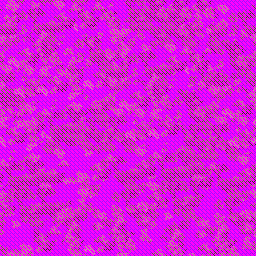
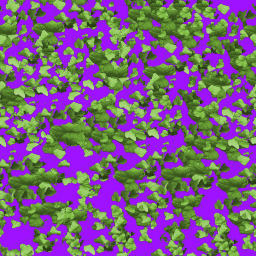
- Fixed the switched second axis - Use pattern for transparency now

diff --git a/font.c b/font.c
@@ -28,28 +28,28 @@ void reloadFont()
   if (font[0])
     spFontDelete(font[0]);
   font[0] = spFontLoad(FONT_LOCATION,FONT_SIZE_0*spGetSizeFactor()>>SP_ACCURACY);
-  spFontAddRange(font[0],' ','~',0);//whole ASCII
+  spFontAdd(font[0],SP_FONT_GROUP_ASCII,0);//whole ASCII
   spFontAddBorder(font[0],65535);
   spFontReplaceColor(font[0],0,SP_ALPHA_COLOR);
 
   if (font[1])
     spFontDelete(font[1]);
   font[1] = spFontLoad(FONT_LOCATION,FONT_SIZE_1*spGetSizeFactor()>>SP_ACCURACY);
-  spFontAddRange(font[1],' ','~',0);//whole ASCII
+  spFontAdd(font[1],SP_FONT_GROUP_ASCII,0);//whole ASCII
   spFontAddBorder(font[1],65535);
   spFontReplaceColor(font[1],0,SP_ALPHA_COLOR);
 
   if (font[2])
     spFontDelete(font[2]);
   font[2] = spFontLoad(FONT_LOCATION,FONT_SIZE_2*spGetSizeFactor()>>SP_ACCURACY);
-  spFontAddRange(font[2],' ','~',14823);//whole ASCII
+  spFontAdd(font[2],SP_FONT_GROUP_ASCII,14823);//whole ASCII
   spFontAddBorder(font[2],48631);
   spFontReplaceColor(font[2],0,SP_ALPHA_COLOR);
 
   if (font[3])
     spFontDelete(font[3]);
   font[3] = spFontLoad(FONT_LOCATION,FONT_SIZE_3*spGetSizeFactor()>>SP_ACCURACY);
-  spFontAddRange(font[3],' ','~',14823);//whole ASCII
+  spFontAdd(font[3],SP_FONT_GROUP_ASCII,14823);//whole ASCII
   spFontAddBorder(font[3],48631);
   spFontReplaceColor(font[3],0,SP_ALPHA_COLOR);
 
@@ -66,14 +66,14 @@ void reloadFont()
   if (font[4])
     spFontDelete(font[4]);
   font[4] = spFontLoad(FONT_LOCATION,FONT_SIZE_4*spGetSizeFactor()>>SP_ACCURACY);
-  spFontAddRange(font[4],' ','~',0);//whole ASCII
+  spFontAdd(font[4],SP_FONT_GROUP_ASCII,0);//whole ASCII
   spFontAddBorder(font[4],2016);
   spFontReplaceColor(font[4],0,SP_ALPHA_COLOR);
 
   if (font[5])
     spFontDelete(font[5]);
   font[5] = spFontLoad(FONT_LOCATION,FONT_SIZE_5*spGetSizeFactor()>>SP_ACCURACY);
-  spFontAddRange(font[5],' ','~',0);//whole ASCII
+  spFontAdd(font[5],SP_FONT_GROUP_ASCII,0);//whole ASCII
   spFontAddBorder(font[5],31743);
   spFontReplaceColor(font[5],0,SP_ALPHA_COLOR);
 }

diff --git a/level.c b/level.c
@@ -414,7 +414,18 @@ void drawLevel()
     spRotateX(planet->rx);
     spRotateY(planet->ry);
     spRotateZ(planet->rz);
+    if (planet->kind != PLANET_NORMAL)
+			spSetPattern8(170,//0b10101010, //0b doesn't work with older gcc versions
+										 85,//0b01010101,
+										170,//0b10101010,
+										 85,//0b01010101,
+										170,//0b10101010,
+										 85,//0b01010101,
+										170,//0b10101010,
+										 85);//0b01010101);    
     spMesh3D(planet->mesh,0);
+    if (planet->kind != PLANET_NORMAL)
+			spDeactivatePattern();
     memcpy(spGetMatrix(),matrix,64);
   }
   
@@ -503,13 +514,13 @@ int calcLevel(Sint32 steps)
         slow_shift = 2;
       if (!momPlayer)
       {
-        if (spGetInput()->axis[1]<0)
+        if (spGetInput()->axis[1]>0)
         {
           level.ship[momPlayer].direction+=steps<<SP_ACCURACY-10-slow_shift;
           if (level.ship[momPlayer].direction >= SP_PI-(1<<SP_ACCURACY-10))
             level.ship[momPlayer].direction = SP_PI-(1<<SP_ACCURACY-10);
         }
-        if (spGetInput()->axis[1]>0)
+        if (spGetInput()->axis[1]<0)
         {
           level.ship[momPlayer].direction-=steps<<SP_ACCURACY-10-slow_shift;
           if (level.ship[momPlayer].direction <= (1<<SP_ACCURACY-10))
@@ -518,13 +529,13 @@ int calcLevel(Sint32 steps)
       }
       else
       {
-        if (spGetInput()->axis[1]>0)
+        if (spGetInput()->axis[1]<0)
         {
           level.ship[momPlayer].direction+=steps<<SP_ACCURACY-10-slow_shift;
           if (level.ship[momPlayer].direction >= 2*SP_PI-(1<<SP_ACCURACY-10))
             level.ship[momPlayer].direction = 2*SP_PI-(1<<SP_ACCURACY-10);
         }
-        if (spGetInput()->axis[1]<0)
+        if (spGetInput()->axis[1]>0)
         {
           level.ship[momPlayer].direction-=steps<<SP_ACCURACY-10-slow_shift;
           if (level.ship[momPlayer].direction <= SP_PI+(1<<SP_ACCURACY-10))

diff --git a/menu.c b/menu.c
@@ -71,16 +71,16 @@ void draw_menu()
 int calc_menu(Uint32 steps)
 {
   calc_music(steps);
-  if (wait_for_release<0 && spGetInput()->axis[1]>=0)
+  if (wait_for_release<0 && spGetInput()->axis[1]<=0)
    wait_for_release = 0;
-  if (wait_for_release>0 && spGetInput()->axis[1]<=0)
+  if (wait_for_release>0 && spGetInput()->axis[1]>=0)
    wait_for_release = 0;
-  if (spGetInput()->axis[1]<0 && menu_choice!=5 && wait_for_release == 0)
+  if (spGetInput()->axis[1]>0 && menu_choice!=5 && wait_for_release == 0)
   {
     wait_for_release = -1;
     menu_choice++;
   }
-  if (spGetInput()->axis[1]>0 && menu_choice!=1 && wait_for_release == 0)
+  if (spGetInput()->axis[1]<0 && menu_choice!=1 && wait_for_release == 0)
   {
     wait_for_release = 1;
     menu_choice--;
